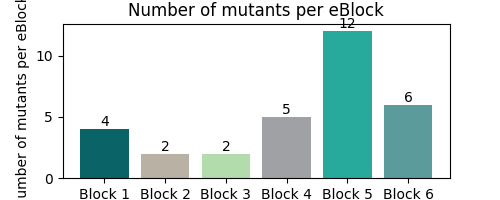
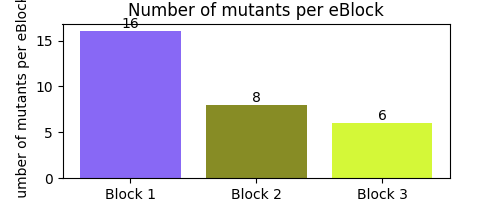
kmeans clustering with optimize per cost of amount

diff --git a/src/design_gene_blocks.py b/src/design_gene_blocks.py
@@ -101,40 +101,22 @@ class DesignEblocks:
                 idx_all.extend(i)
             else:
                 idx_all.append(i)
+
         print("idx_all: ", idx_all)
+        print("----------------------------------")
 
-        # TODO in the tuple also add the type of mutation
-        # Do clusterin with dbscan
-        # TODO OPTIMIZE epsilon value
-        # print(idx_test)
-        # start_eps = 100
-        # clusters = self.dbscan_clustering(data=idx_test, epsilon=200)
-        # print("dbscan clusters: ", clusters)
-        
-        clusters = self.make_clusters(idx_all, paired)
-        # TODO clusters_oh = pass # Add overhang to clusters (on both sides)
-        sys.exit()
-
-        # TODO Check length of clusters, if too small or too large, then change epsilon and rerun?
-
-
-        # # Optimize bin size and bin position using meanshift algorithm
-        # print("Optimizing bin sizes ...")
-        # optimal_bandwidth, lowest_cost = self.optimize_bins(idx_dna)
-        # # TODO What is the optimal bandwith?
-        # # print("Optimal bandwidth: ", str(optimal_bandwidth))
-
-        # clusters = self.meanshift(idx_dna, optimal_bandwidth)
-        # print("meanshift Clusters: ", str(clusters))
-        # sys.exit()
+        # TODO LET THE USER DECIDE WHICH CLUSTERING TO USE (CHEAPEST, FEWEST EBLOCKS?)
+        # length of ebLock is already checked here
+        clusters = self.make_clusters(idx_all, paired, optimize='amount') # or 'amount', 'cost'	# TODO ADD TO DESIGN EBLOCKS INIT
+        print("clusters: ", clusters)
 
         # Write expected cost to file (based on IDT pricing)
-        with open(os.path.join(self.output_fp, "expected_cost.txt"), "w") as f:
-            f.write(f"expected costs: {str(lowest_cost)}" + '\n')
-            f.write(f"number of cluters: {str(len(clusters))}" + '\n')
+        # with open(os.path.join(self.output_fp, "expected_cost.txt"), "w") as f:
+        #     f.write(f"expected costs: {str(lowest_cost)}" + '\n')
+        #     f.write(f"number of cluters: {str(len(clusters))}" + '\n')
 
-        bins = self.make_bins(clusters)
-        # print("Bins: ", str(bins))
+        bins = self.make_bins(clusters) # Here the OH is added to both sides of the gene block
+        print("Bins: ", str(bins))
         
         # Make gene blocks (WT DNA sequences cut to the correct size)
         all_gene_blocks = self.make_gene_block(bins, self.dna_seq)
@@ -173,6 +155,7 @@ class DesignEblocks:
             print(key, len(value))
 
         # TODO Maybe first check for all gene blocks whether the mutation is in a correct place, e.g. not the beginning or end of a gene block
+        # TODO SIZES ALREADY HAVE BEEN CHECKED, SO NO NEED TO CHECK AGAIN HERE
 
         results = {}
         should_restart = True
@@ -527,7 +510,7 @@ class DesignEblocks:
 
         Returns:
             list: list of bins
-        """    
+        """
         bins = []
         for _, value in clusters.items():
             bins.append(min(value) - self.min_bin_overlap)
@@ -727,13 +710,13 @@ class DesignEblocks:
 
         return clusters
     
-    def make_clusters(self, idxs, paired_mutations):
+    def make_clusters(self, idxs, paired_mutations, optimize='cost'):
+        # OTHER OPTIMIZE Possibilty = 'amount'
         
         possibilities = {}
         n = 1
         valid_clusters = True
 
-        # TODO Take into account the OH on both sides of the gene block, so decrease max size with 40 (20 on both sides)
         # TODO CHECK IF PAIRED MUTATIONS ARE CORRECTLY ADDED TO THE CLUSTER
         # TODO GIVE SUMMARY OF OPTIONS AND LET THE USER DECIDE WHICH ONE TO USE
         # TODO PEROFRM DIFFERENT RANDOM STATES AS WELL?
@@ -758,7 +741,7 @@ class DesignEblocks:
             max_cluster_size = max(cluster_sizes)
             min_cluster_size = min(cluster_sizes)
 
-            if max_cluster_size > (self.idt_max_length_fragment - 2 * self.min_bin_overlap):
+            if max_cluster_size > (self.idt_max_length_fragment - 2 * self.min_bin_overlap): # Take into account the OH on both sides of the gene block, so decrease max size with 2 times min length of OH
                 print("Cluster size is still too large, increasing the number of clusters")
                 n += 1
             elif min_cluster_size < (self.idt_min_length_fragment - 2 * self.min_bin_overlap):
@@ -768,6 +751,7 @@ class DesignEblocks:
                 possibilities[f'cluster N={n}'] = clusters # TODO ADD CLUSTERING PARAMS HERE? 
                 # Calculate costs and check size of fragments
                 cost = self.calculate_cost(clusters)
+                n_eblocks = len(clusters)
                 print(f"Costs of cluster N={n}: {cost}")
                 n += 1
 
@@ -775,7 +759,26 @@ class DesignEblocks:
         for key, value in possibilities.items():
             print(key, value)
 
-        return possibilities
+        if optimize == 'cost':
+            # Find the clustering with the lowest cost
+            lowest_cost = np.inf
+            for key, value in possibilities.items():
+                cost = self.calculate_cost(value)
+                if cost < lowest_cost:
+                    lowest_cost = cost
+                    best_clustering = value
+            print(f"Lowest cost: {lowest_cost}")
+            return best_clustering
+        
+        elif optimize == 'amount':
+            # Find the clustering with the lowest number of eBlocks
+            fewest_blocks = np.inf
+            for key, value in possibilities.items():
+                n_blocks = len(value)
+                if n_blocks < fewest_blocks:
+                    fewest_blocks = n_blocks
+                    best_clustering = value
+            return best_clustering
 
     def kmeans_clustering(self, mutation_indices, paired_mutations, num_clusters, visaualize=False):
         # Create connected mutation indices based on pairs
@@ -838,6 +841,7 @@ class DesignEblocks:
         return f'Block_{num}_pos_{bins[num]}_{bins[num+1]}'
 
     def make_gene_block(self, bins, dna_sequence):
+        # TODO Add overhang on both sides of the gene block 
         gene_blocks = {}
         for num in range(len(bins) - 1):
             name = self.name_block(num, bins)
